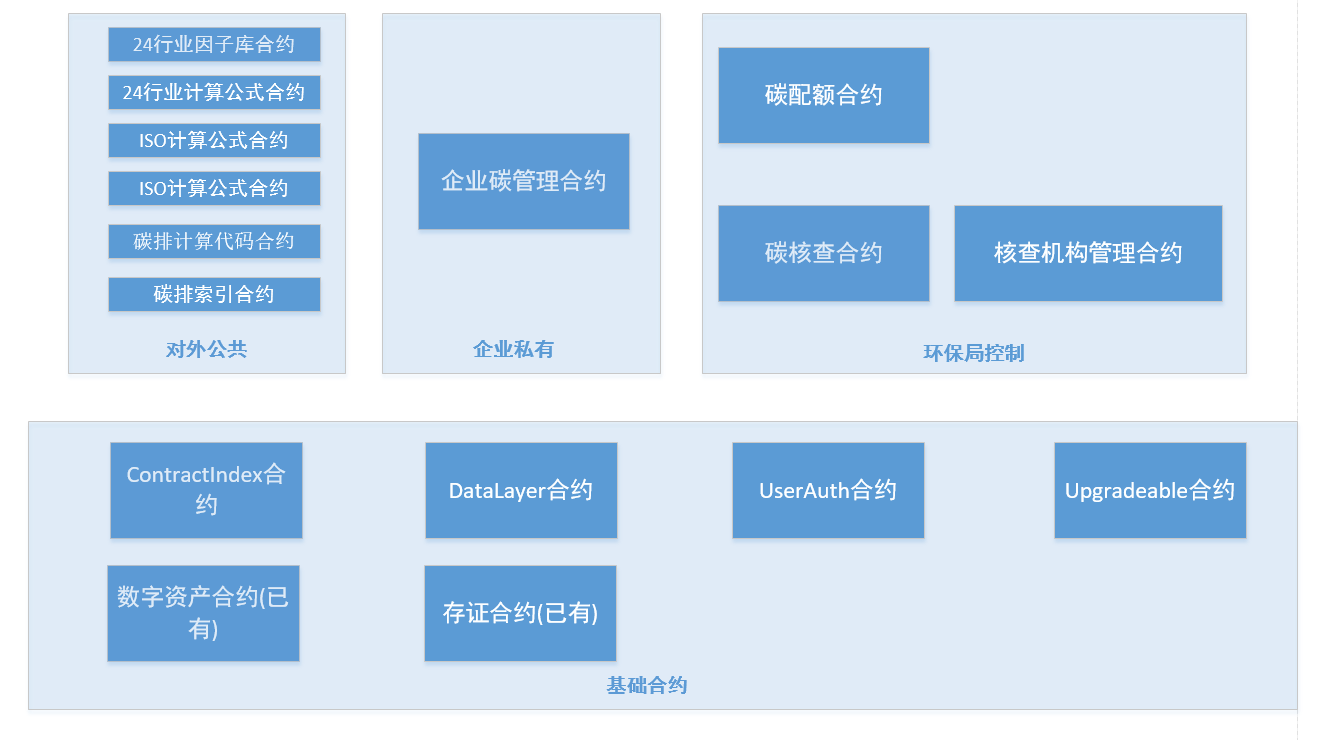
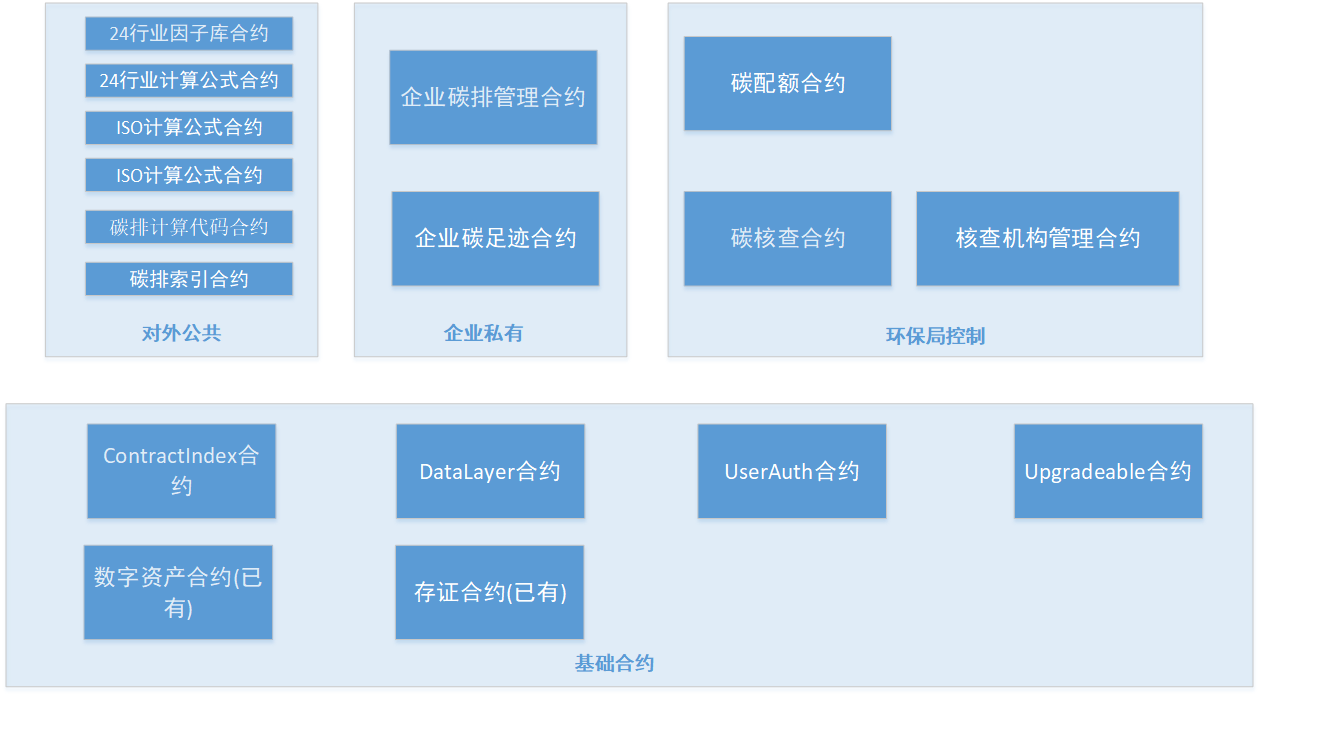
adjust some syntax error

diff --git a/doc/design.md b/doc/design.md
@@ -6,7 +6,7 @@
 
 ![图片](pics/contracts.png)
 
-> 注：标准范围只涉及企业碳排的相关合约。暂时不考虑CCER,碳汇,碳交易,碳足迹等。
+> 注：标准范围只涉及企业碳排和碳足迹的相关合约。暂时不考虑CCER,碳汇,碳交易等。
 
 ### 1 因子库合约
 
@@ -32,13 +32,13 @@
 
 从这个索引合约可以检索到以上合约的历史记录,版本历史,从而可以找到对应的合约地址.
 
-### 5 企业碳管理合约
+### 5 企业碳排管理合约
 
 从UserAuth合约继承,可以控制只有企业碳排管理员帐号可以添加/修改/查看碳排数据;
 
 可以控制只有企业帐号可以生成/修改/查看碳排数据;
 
-   每个企业对应一个企业碳管理合约. 
+   每个企业对应一个企业碳排管理合约. 
 
    企业和监管机构通过该合约可以较实时地监测企业碳排放量; 
 
@@ -60,27 +60,29 @@
 
    企业碳排报告核查不通过, 需要整改时, 碳排整改记录也需保存.以便核查机构再次核查时查看验证.   
 
-### 6 碳配额合约
+### 6 企业碳足迹合约
+
+### 7 碳配额合约
 
    从UserAuth合约继承,可以控制控制只有环境厅的管理员账户才可以下发企业碳配额;   
 
-    碳配额合约从ERC20继承,使其具有金融功能,该合约管理有相关企业的碳管理合约地址和年度配额,以及相关企业的碳账户地址.(为以后的碳交易准备).
+    碳配额合约从ERC20继承,使其具有金融功能,该合约管理有相关企业的碳排管理合约地址和年度配额,以及相关企业的碳账户地址.(为以后的碳交易准备).
 
    该合约年初时由环境厅下发相关企业的配额.由环境厅控制.
 
-### 7 核查机构管理合约
+### 8 核查机构管理合约
 
 从UserAuth合约继承,可以控制只能由部署者或部署者允许的帐号审批核查机构;
 
     该合约管理有资质进行核查的核查机构.由环境厅控制.
 
-### 8 碳核查合约
+### 9 碳核查合约
 
 从UserAuth合约继承,可以控制只能由部署者或部署者允许的帐号参与碳核查;
 
     该合约控制每年每个企业的碳核查流程.由环境厅控制.
 
-### 9 DataLayer 合约
+### 10 DataLayer 合约
 
 保存企业碳排数据（或则数据摘要），每个企业需要部署一个DataLayer合约，企业碳排数据，相应台账,发票等证明文件数据保存在该DataLayer中, 各数据之间可以建立关联关系，用于追溯依赖。
 
@@ -117,17 +119,17 @@
 
 ### 计算
 
-* 通过企业的后台系统拉取因子库合约中的JSON格式的碳排因子EF,拉取企业碳管理合约中的JSON格式的碳排量AD,
+* 通过企业的后台系统拉取因子库合约中的JSON格式的碳排因子EF,拉取企业碳排管理合约中的JSON格式的碳排量AD,
 * 通过企业的后台系统拉取计算公式合约中的JSON格式的计算公式FORMULA
 * 通过企业的后台系统拉取JS计算代码,
-* 在后台系统通过JS代码应用FORMULA,AD,EF,计算出相应的碳排量.再将碳排量上传保存至企业碳管理合约.
+* 在后台系统通过JS代码应用FORMULA,AD,EF,计算出相应的碳排量.再将碳排量上传保存至企业碳排管理合约.
 
 ### 验证
 
 	核查机构或环境厅获取企业数据并验证计算记过。
 
 * 从后台系统拉取因子库合约中的JSON格式的碳排因子EF,
-* 拉取企业碳管理合约中的JSON格式的碳排量AD,
+* 拉取企业碳排管理合约中的JSON格式的碳排量AD,
 * 拉取计算公式合约中的JSON格式的计算公式FORMULA和JS计算代码,
 * 在后台系统通过JS代码应用FORMULA,AD,EF,计算出相应的碳排量.
 * 将**企业填报碳排量**和**计算结果**比对,从而确定是否验证通过.
@@ -138,7 +140,7 @@
 
 为了规范合约中的数据，我们将会约定合约中的各种命名规范，数据信息保存格式。
 
-由于计算和验证均采用离线方式，企业碳管理合约中保存的碳排数据量AD,因子库合约中保存的因子EF,以及计算公式合约中保存的计算公式FORMULA，均采用约定的JSON格式保存. 合约内部不进行JSON格式的处理.
+由于计算和验证均采用离线方式，企业碳排管理合约中保存的碳排数据量AD,因子库合约中保存的因子EF,以及计算公式合约中保存的计算公式FORMULA，均采用约定的JSON格式保存. 合约内部不进行JSON格式的处理.
 
 ### 命名
 
@@ -146,13 +148,13 @@
 
 碳系统索引合约中：
 
-* 国标因子合约索引命名： `GB_${行业编号}_factor_${YYMMDD}_${预留4个字符}`
-* 国标公式合约索引命名： `GB_${行业编号}_falmula_${YYMMDD}_${预留4个字符}`
-* 国标计算代码合约索引命名： `GB_calculate_${YYMMDD}_${预留4个字符}`
+* 国标因子合约命名： `GB_${行业编号}_factor_${YYMMDD}_${预留4个字符}`
+* 国标公式合约命名： `GB_${行业编号}_falmula_${YYMMDD}_${预留4个字符}`
+* 国标计算代码合约命名： `GB_calculate_${YYMMDD}_${预留4个字符}`
 
 #### 命名列表
 
-* 国标因子合约索引命名
+* 国标因子合约命名
 
 | 行业名       | 索引名                       |
 | ------------ | ---------------------------- |
@@ -160,7 +162,7 @@
 | 中国电网企业 | `GB_02_factor_20231001_0000` |
 | ...          |                              |
 
-* 国标公式合约索引命名
+* 国标公式合约命名
 
 | 行业名       | 索引名                        |
 | ------------ | ----------------------------- |
@@ -168,15 +170,15 @@
 | 中国电网企业 | `GB_02_formula_20231001_0000` |
 |              |                               |
 
-* ISO因子合约索引命名
+* ISO因子合约命名
 
 ...
 
-* ISO公式合约索引命名
+* ISO公式合约命名
 
 ...
 
-* 国标计算代码合约索引命名
+* 国标计算代码合约命名
 
 | 行业名         | 索引名                       |
 | -------------- | ---------------------------- |
@@ -188,7 +190,7 @@
 
 ### 合约1  碳系统索引合约
 
-#### 数据结构
+#### 数据结构示例
 
 ```
 contract_num: 6,
@@ -322,35 +324,35 @@ datalayer hash 对应的JSON格式的公式数据为:
 
 "sum":{
     type: "emission_summary",
-    formulaid: "01-00",
+    formula_id: "01-00",
     name: "汇总公式",
-    formula: "E_fuel + E_electricity + E_process_1",
+    formula_id: "E_fuel + E_electricity + E_process_1",
     factor: "01-00", //关联因子
     calculate_logic: "", // 计算逻辑
  },
 
 “E_fuel":{
     type: "emission_item",
-    formulaid: "01-01",
+    formula_id: "01-01",
     name: "化石燃料燃烧产生的CO2排放量",
     formula: "(FC×NCV)×CC×OF×44/12",
-    factor: "01-01", //关联因子
+    factor_id: "01-01", //关联因子
     calculate_logic: "", // 计算逻辑
  },
  “E_electricity":{
     type: "emission_item",
-    formulaid: "01-02",
+    formula_id: "01-02",
     name: "净购入使用的电力产生的CO2排放量",
     formula: "AC×EF",
-    factor: "01-02", //关联因子
+    factor_id: "01-02", //关联因子
     calculate_logic: "", // 计算逻辑
  },
  “E_process_1":{
     type: "emission_item",
-    formulaid: "01-03",
+    formula_id: "01-03",
     name: "工业生产过程(脱硫过程)产生的CO2排放量",
     formula: "B×I×EF×TR",
-    factor: "01-03", //关联因子
+    factor_id: "01-03", //关联因子
     calculate_logic: "", // 计算逻辑
  },
 }
@@ -360,7 +362,7 @@ datalayer hash 对应的JSON格式的公式数据为:
 
 
 
-### 合约4  企业碳管理合约
+### 合约4  企业碳排管理合约
 
 #### 数据结构
 

diff --git a/doc/factor24_spec.md b/doc/factor24_spec.md
@@ -218,7 +218,7 @@ value_symbol：热焓
 | 一级字段       | 二级字段 | 字段描述                                                     | 是否可调整 |
 | -------------- | -------- | ------------------------------------------------------------ | ---------- |
 | type           | 无       | 因子数据类型,co:常量 od:一维数据 sd:二维数据                 | No         |
-| factorid       | 无       | 因子所属排放源,如 01-01对应发电企业化石燃料燃烧              | No         |
+| factor_id      | 无       | 因子所属排放源,如 01-01对应发电企业化石燃料燃烧              | No         |
 | parameter_name | 无       | 因子数据类型对应的参数名称,如name,pressure,temperature       | No         |
 | desc           | 无       | 排放源中文名称,如"化石燃料燃烧"                              | No         |
 | data           | value    | 因子值                                                       | Yes        |
@@ -242,7 +242,7 @@ value_symbol：热焓
 {
     "fuel": {
         type: "od",
-        factorid: "01-01",
+        factor_id: "01-01",
         parameter_name: ["name"],
         desc: "化石燃料燃烧",
         data:
@@ -253,7 +253,7 @@ value_symbol：热焓
     },
     "electricity": {
         type: "co",
-        factorid: "01-02",
+        factor_id: "01-02",
         parameter_name: [],
         desc: "净购入使用的电力",
         data:
@@ -263,7 +263,7 @@ value_symbol：热焓
     },
     "process_1": {
         type: "od",
-        factorid: "01-03",
+        factor_id: "01-03",
         parameter_name: ["name"],
         desc: "工业生产过程(脱硫过程)",
         data:
@@ -285,7 +285,7 @@ value_symbol：热焓
 {
     "fuel": {
         type: "od",
-        factorid: "19-01",
+        factor_id: "19-01",
         parameter_name: ["name"],
         desc: "化石燃料燃烧",
         data:
@@ -297,7 +297,7 @@ value_symbol：热焓
     },
     "electricity": {
         type: "co",
-        factorid: "19-02",
+        factor_id: "19-02",
         parameter_name: [],
         desc: "净购入使用的电力",
         data:
@@ -307,7 +307,7 @@ value_symbol：热焓
     },
     "hot": {
         type: "co",
-        factorid: "19-03",
+        factor_id: "19-03",
         parameter_name: [],
         desc: "净购入的热力",
         data:
@@ -317,7 +317,7 @@ value_symbol：热焓
     },
     "steam": {
         type: "sd",
-        factorid: "19-04",
+        factor_id: "19-04",
         parameter_name: ["pressure", "temperature"],
         desc: "净购入的蒸汽",
         data:
@@ -328,7 +328,7 @@ value_symbol：热焓
     },
     "process_1": {
         type: "od",
-        factorid: "19-05",
+        factor_id: "19-05",
         parameter_name: ["name"],
         desc: "工业生产过程(碳酸盐分解)",
         data:
@@ -339,7 +339,7 @@ value_symbol：热焓
     },
     "process_2": {
         type: "od",
-        factorid: "19-06",
+        factor_id: "19-06",
         parameter_name: ["name"],
         desc: "工业生产过程(碳化工艺吸收)",
         data:

diff --git a/doc/formula24_spec.md b/doc/formula24_spec.md
@@ -219,7 +219,7 @@
 | formula_id      | 公式id,如 01-01对应发电企业化石燃料燃烧公式               |
 | name            | 公式名称,如化石燃料燃烧产生的CO2排放量                    |
 | formula         | 公式                                                      |
-| factor          | 对应的因子id,如01-01对应发电企业化石燃料燃烧因子          |
+| factor_id       | 对应的因子id,如01-01对应发电企业化石燃料燃烧因子          |
 | calculate_logic | 计算逻辑                                                  |
 
     表中所有字段均固定不变.
@@ -240,7 +240,7 @@
     formula_id: "01-00",
     name: "汇总公式",
     formula: "E_fuel + E_electricity + E_process_1",
-    factor: "01-00", //关联因子
+    factor_id: "01-00", //关联因子
     calculate_logic: "", // 计算逻辑
  },
 
@@ -249,7 +249,7 @@
     formula_id: "01-01",
     name: "化石燃料燃烧产生的CO2排放量",
     formula: "(FC*NCV)*CC*OF*44/12",
-    factor: "01-01", //关联因子
+    factor_id: "01-01", //关联因子
     calculate_logic: "", // 计算逻辑
  },
  “E_electricity":{
@@ -265,7 +265,7 @@
     formula_id: "01-03",
     name: "工业生产过程(脱硫过程)产生的CO2排放量",
     formula: "B*I*EF*TR",
-    factor: "01-03", //关联因子
+    factor_id: "01-03", //关联因子
     calculate_logic: "", // 计算逻辑
  },
 }
@@ -285,7 +285,7 @@
     formula_id: "19-00",
     name: "汇总公式",
     formula: "E_fuel + E_electricity + E_hot + E_steam + E_process_1 - E_process_2",
-    factor: "19-00", //关联因子
+    factor_id: "19-00", //关联因子
     calculate_logic: "", // 计算逻辑
  },
 
@@ -294,7 +294,7 @@
     formula_id: "19-01",
     name: "化石燃料燃烧产生的CO2排放量",
     formula: "(FC*NCV)*CC*OF*44/12",
-    factor: "19-01", //关联因子
+    factor_id: "19-01", //关联因子
     calculate_logic: "", // 计算逻辑
  },
  “E_electricity":{
@@ -302,7 +302,7 @@
     formula_id: "19-02",
     name: "净购入使用的电力产生的CO2排放量",
     formula: "AD*EF",
-    factor: "19-02", //关联因子
+    factor_id: "19-02", //关联因子
     calculate_logic: "", // 计算逻辑
  },
  “E_hot":{
@@ -318,7 +318,7 @@
     formula_id: "19-04",
     name: "净购入的蒸汽产生的CO2排放量",
     formula: "[Ma*(En-83.74)/1000]*EF",
-    factor: "19-04", //关联因子
+    factor_id: "19-04", //关联因子
     calculate_logic: "", // 计算逻辑
  },
  “E_process_1":{
@@ -326,7 +326,7 @@
     formula_id: "19-05",
     name: "工业生产过程(碳酸盐分解)产生的CO2排放量",
     formula: "AD*n*∑(EF*PUR)",
-    factor: "19-05", //关联因子
+    factor_id: "19-05", //关联因子
     calculate_logic: "", // 计算逻辑
  },
  “E_process_2":{
@@ -334,7 +334,7 @@
     formula_id: "19-06",
     name: "工业生产过程(碳化工艺吸收)产生的CO2排放量",
     formula: "AD*∑(EF*PUR)",
-    factor: "19-06", //关联因子
+    factor_id: "19-06", //关联因子
     calculate_logic: "", // 计算逻辑
  },
 }

diff --git a/README.md b/README.md
@@ -1,1 +1,12 @@
 # carbon-contract-standard
+
+### 发布记录
+
+#### release note
+
+##### v0.0.1版本
+
+   2023年11月13日发布: 1 合约标准设计文档
+
+                                          2 编写了碳排相关合约 
+
